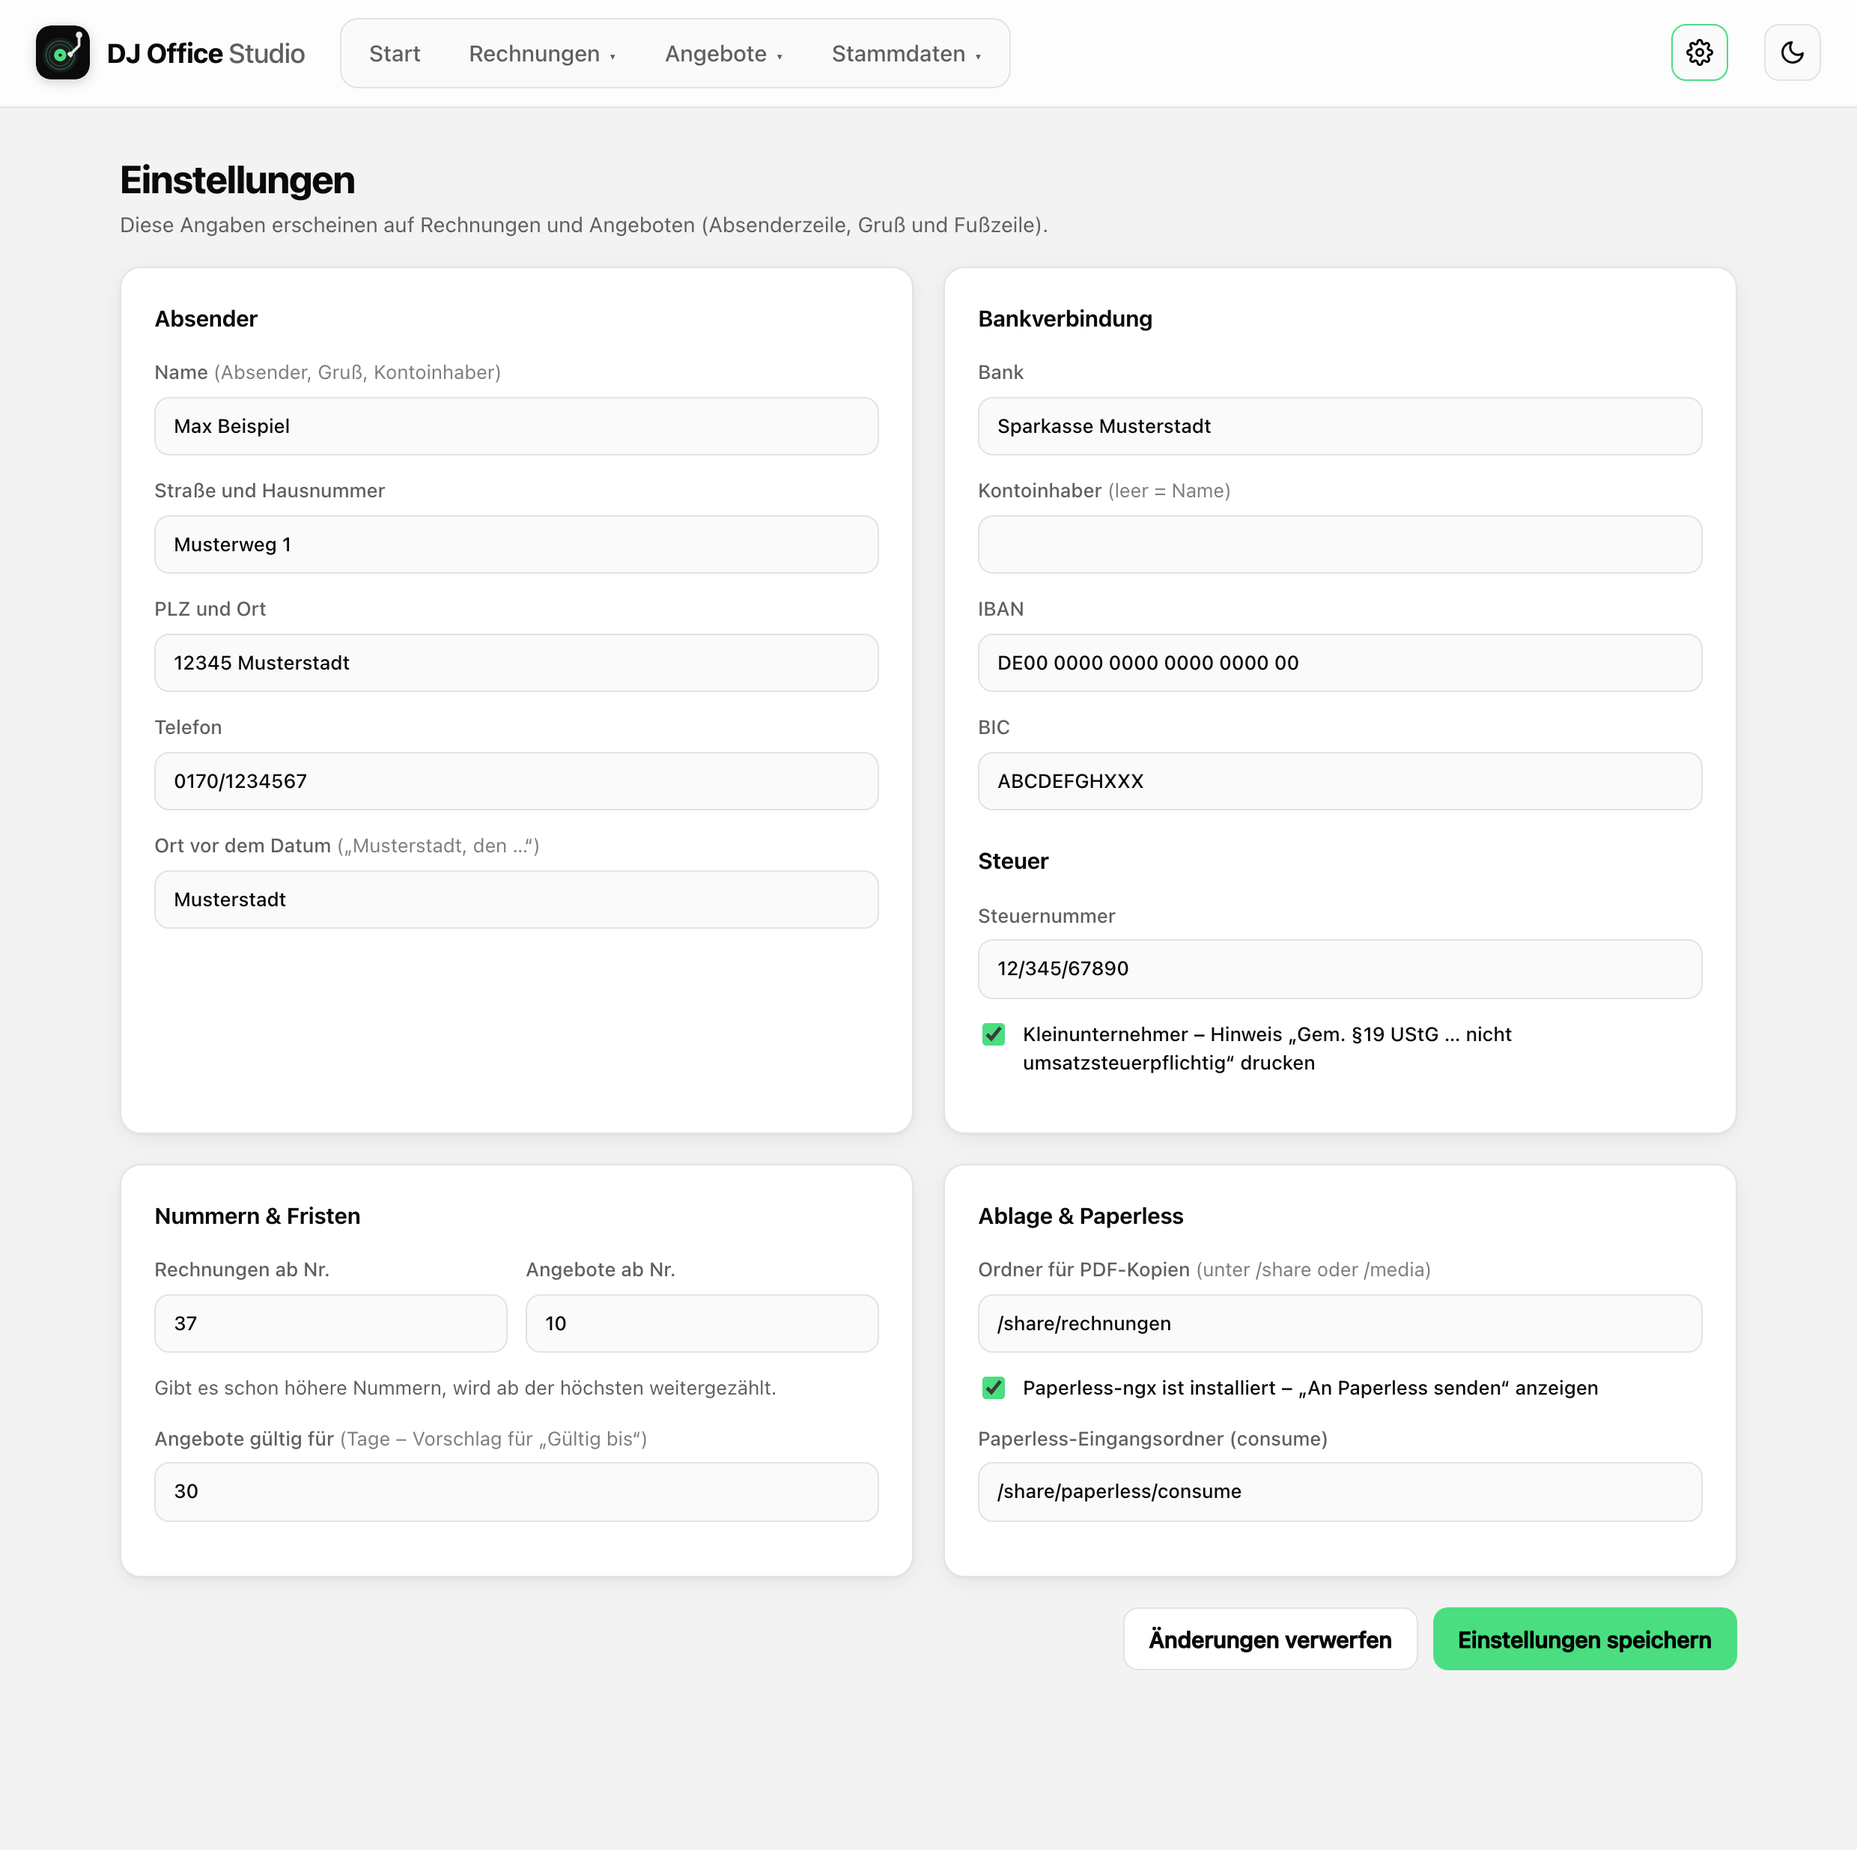
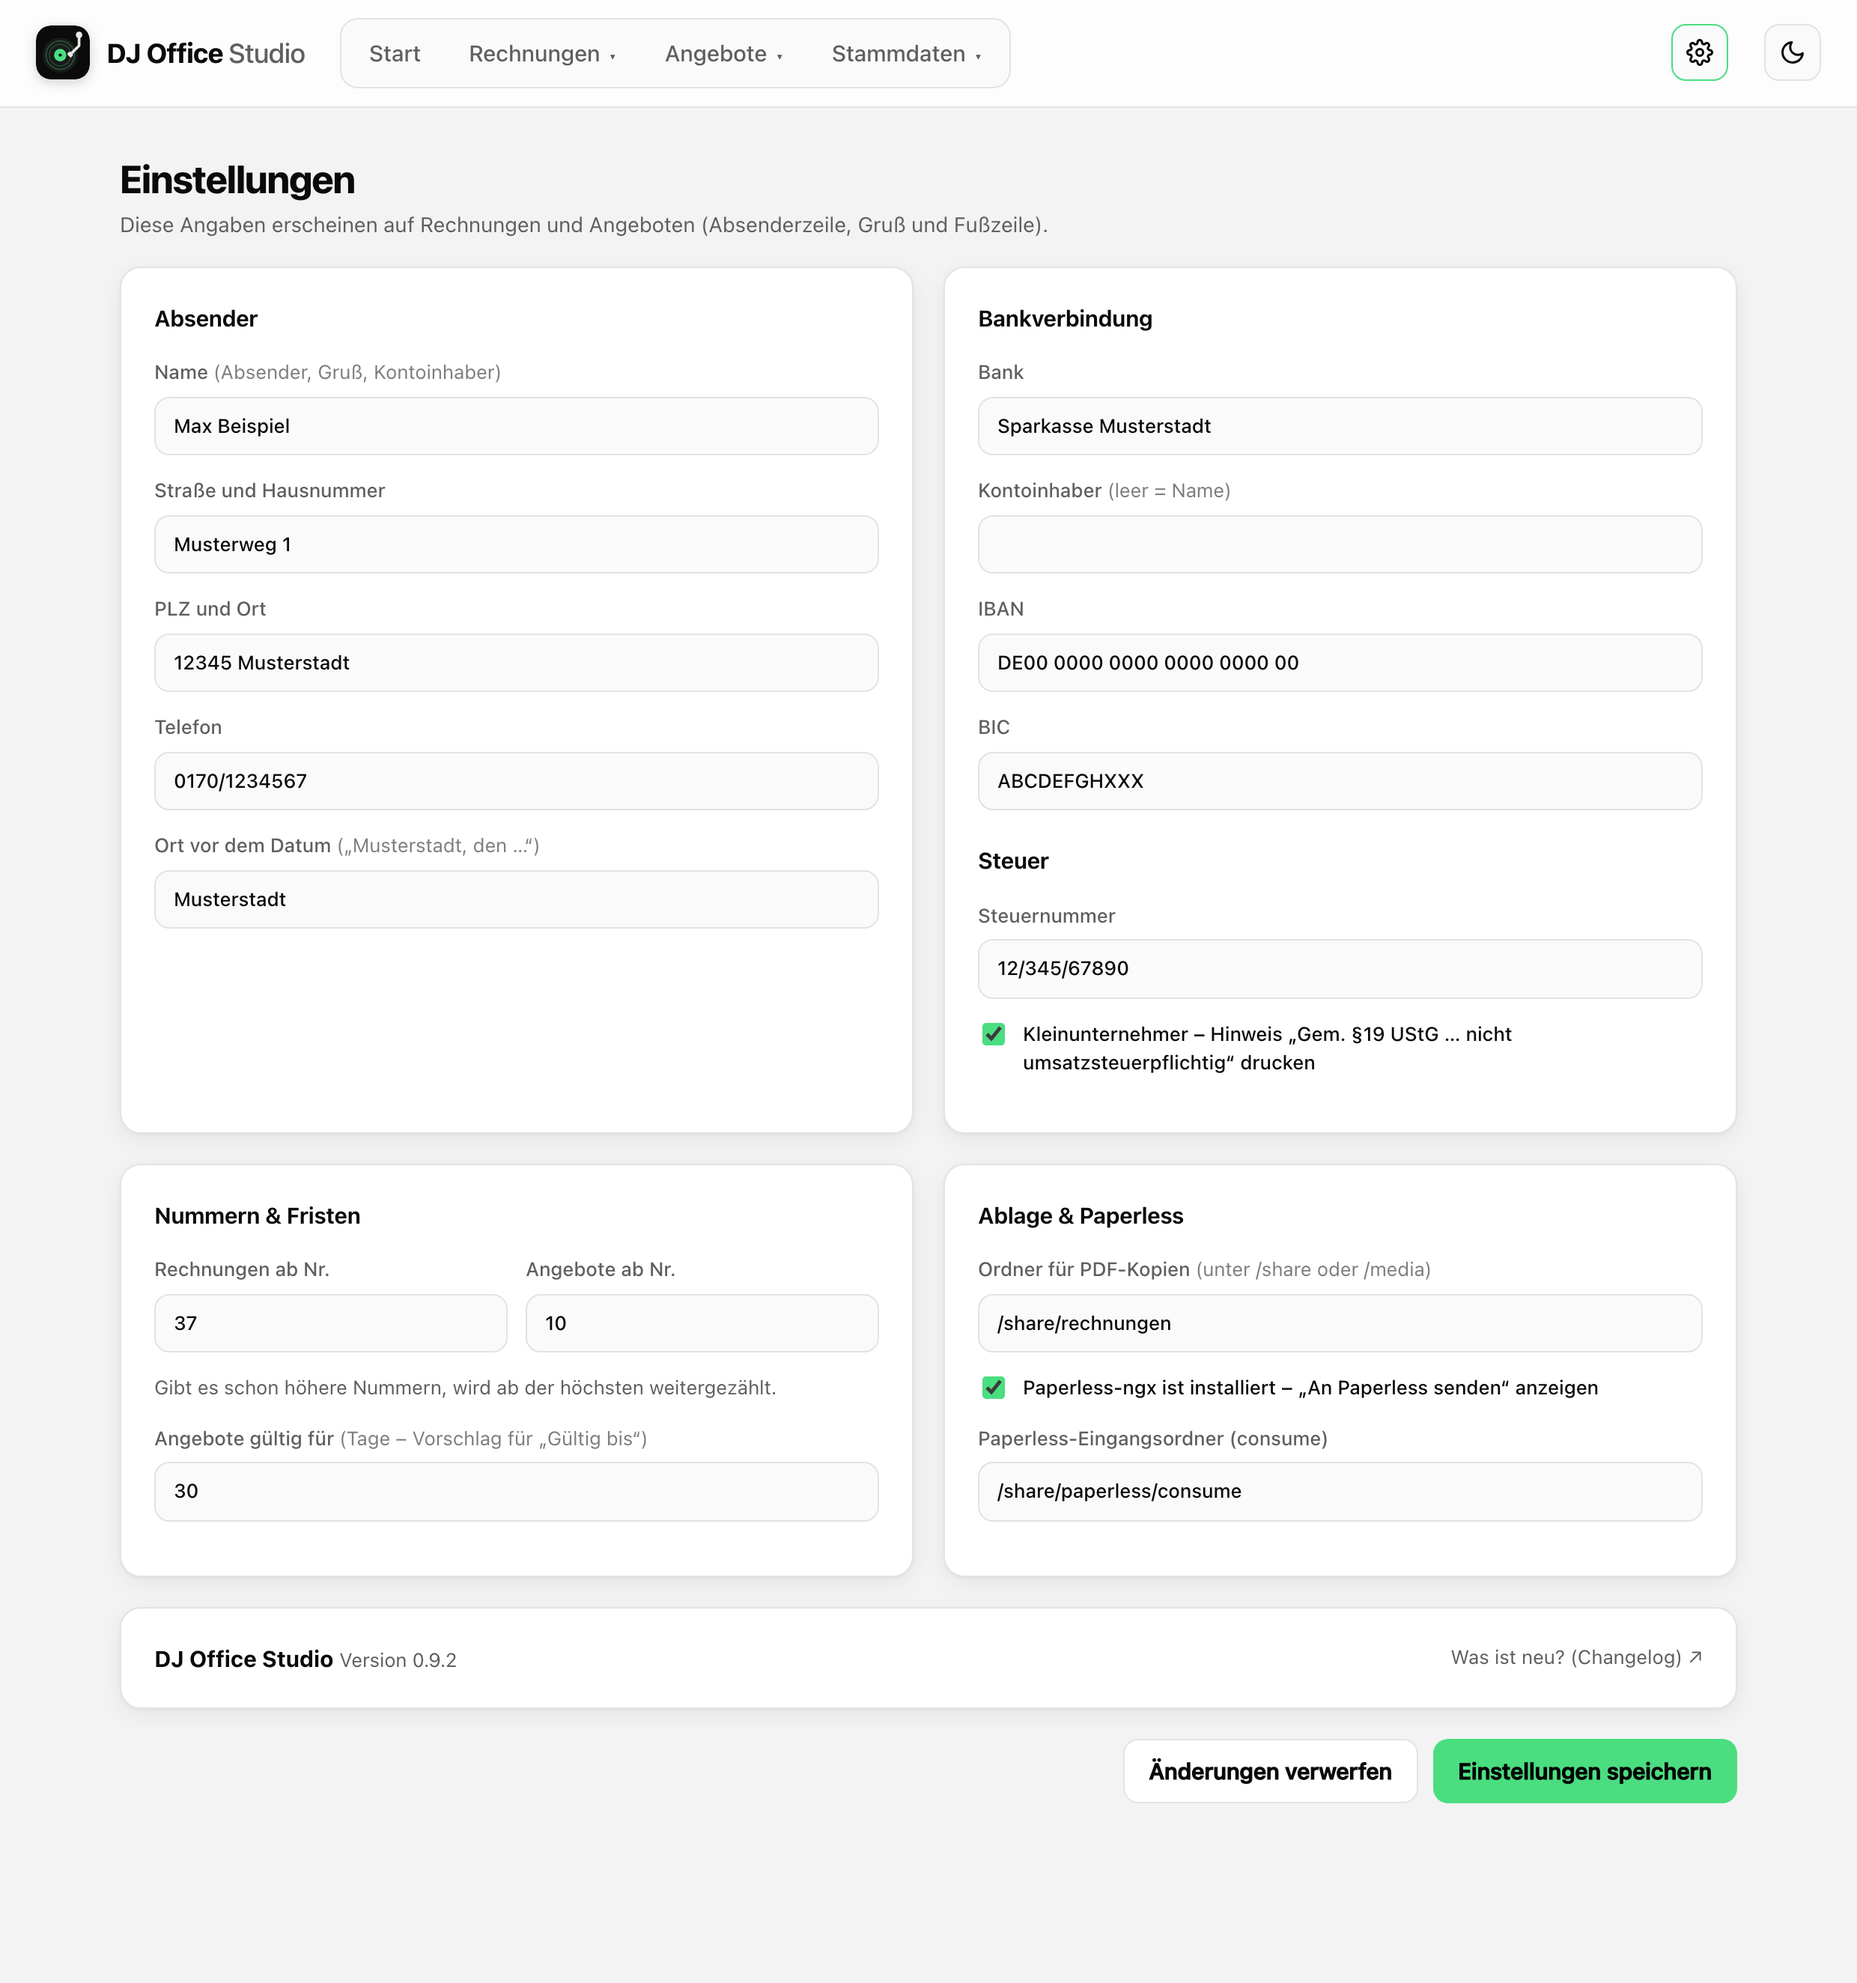
Versionsanzeige mit Changelog-Link in den Einstellungen

diff --git a/rechnungen/app/static/index.html b/rechnungen/app/static/index.html
@@ -331,6 +331,10 @@
             <label>Paperless-Eingangsordner (consume)<input name="paperless_eingangsordner" placeholder="/share/paperless/consume"></label>
           </div>
         </div>
+        <div class="card info-karte">
+          <div><strong>DJ Office Studio</strong> <span class="hint">Version <span id="app-version">–</span></span></div>
+          <a href="https://github.com/DJMalte96/ha-rechnungen/blob/main/rechnungen/CHANGELOG.md" target="_blank" rel="noopener" class="mehr">Was ist neu? (Changelog) ↗</a>
+        </div>
         <div class="actions">
           <button type="button" id="einstellungen-verwerfen" class="secondary">Änderungen verwerfen</button>
           <button type="submit">Einstellungen speichern</button>

diff --git a/rechnungen/app/static/app.js b/rechnungen/app/static/app.js
@@ -200,6 +200,7 @@ $("#einstellungen").addEventListener("submit", async e => {
 async function ladeAbsender() {
   const abs = await api("absender");
   state.absender = abs;
+  $("#app-version").textContent = abs.version || "–";
   $("#warnung").classList.toggle("hidden", abs.vollstaendig);
   $$(".pl-button").forEach(b => b.classList.toggle("hidden", !abs.paperless));   // nur mit „Paperless installiert“
   return abs;

diff --git a/rechnungen/app/static/style.css b/rechnungen/app/static/style.css
@@ -405,3 +405,4 @@ tr.angebot-zu td.btns, tr.angebot-zu td.auswahl-spalte, tr.angebot-zu td:nth-chi
 #tab-einstellungen .grid2 > .card { margin: 0; }
 #tab-einstellungen label.inline { margin-bottom: 14px; }
 #tab-einstellungen p.hint { margin: 0 0 14px; }
+.info-karte { display: flex; justify-content: space-between; align-items: center; gap: 12px; flex-wrap: wrap; margin-bottom: 20px; }

diff --git a/rechnungen/app/main.py b/rechnungen/app/main.py
@@ -31,6 +31,23 @@ FELDER = {
 }
 
 
+def _app_version():
+    """Version aus config.yaml (im Container nach /app kopiert, lokal eine Ebene höher)."""
+    hier = os.path.dirname(os.path.abspath(__file__))
+    for pfad in (os.path.join(hier, "config.yaml"), os.path.join(hier, "..", "config.yaml")):
+        try:
+            with open(pfad, encoding="utf-8") as f:
+                for zeile in f:
+                    if zeile.startswith("version:"):
+                        return zeile.split(":", 1)[1].strip().strip('"\'')
+        except OSError:
+            continue
+    return "unbekannt"
+
+
+APP_VERSION = _app_version()
+
+
 def _ha_optionen():
     """Werte aus der App-Konfiguration in Home Assistant (nur noch für die einmalige Übernahme)."""
     try:
@@ -123,7 +140,8 @@ def get_absender():
     return jsonify({k: a.get(k) for k in ("name", "strasse", "plz_ort", "ort_fuer_datum")}
                    | {"vollstaendig": bool(a.get("name") and a.get("iban")),
                       "paperless": bool(a.get("paperless_installiert")),
-                      "angebot_gueltigkeit_tage": a.get("angebot_gueltigkeit_tage") or 30})
+                      "angebot_gueltigkeit_tage": a.get("angebot_gueltigkeit_tage") or 30,
+                      "version": APP_VERSION})
 
 
 # ---------- Stammdaten (Kunden, Textbausteine, Zahlungsbedingungen) ----------

diff --git a/README.md b/README.md
@@ -49,6 +49,8 @@ Alle Einstellungen werden **in der App** gemacht: oben rechts auf **⚙** klicke
 | Nummern & Fristen | Rechnungen ab Nr., Angebote ab Nr. (danach wird automatisch hochgezählt), Gültigkeit neuer Angebote in Tagen |
 | Ablage & Paperless | Ordner für PDF-Kopien (Standard `/share/rechnungen`), „Paperless-ngx ist installiert“, Paperless-Eingangsordner |
 
+Unten auf der Seite steht außerdem die installierte Version mit Link zum Changelog.
+
 Die Angaben erscheinen in Absenderzeile, Gruß und Fußzeile jeder Rechnung und jedes Angebots. Solange Name oder IBAN fehlen, zeigt die App oben einen Hinweis mit Link zu den Einstellungen.
 
 > **Umstieg von älteren Versionen:** Bis Version 0.8 wurden diese Werte in Home Assistant unter *Einstellungen → Apps → DJ Office Studio → Konfiguration* eingetragen. Version 0.9.0 übernimmt sie beim ersten Öffnen der App automatisch in die eigenen Einstellungen; ab 0.9.1 gibt es die Felder in Home Assistant nicht mehr. Wer direkt von 0.8 oder älter auf 0.9.1 oder neuer aktualisiert, trägt die Werte einmal unter ⚙ neu ein.

diff --git a/rechnungen/CHANGELOG.md b/rechnungen/CHANGELOG.md
@@ -2,6 +2,11 @@
 
 Alle Änderungen an DJ Office Studio. Neueste Version oben.
 
+## 0.9.2 – 2026-11-16
+
+### Neu
+- Unter **⚙ Einstellungen** steht jetzt die installierte **Version** der App, mit Link zum Changelog („Was ist neu?“).
+
 ## 0.9.1 – 2026-11-16
 
 ### Entfernt
